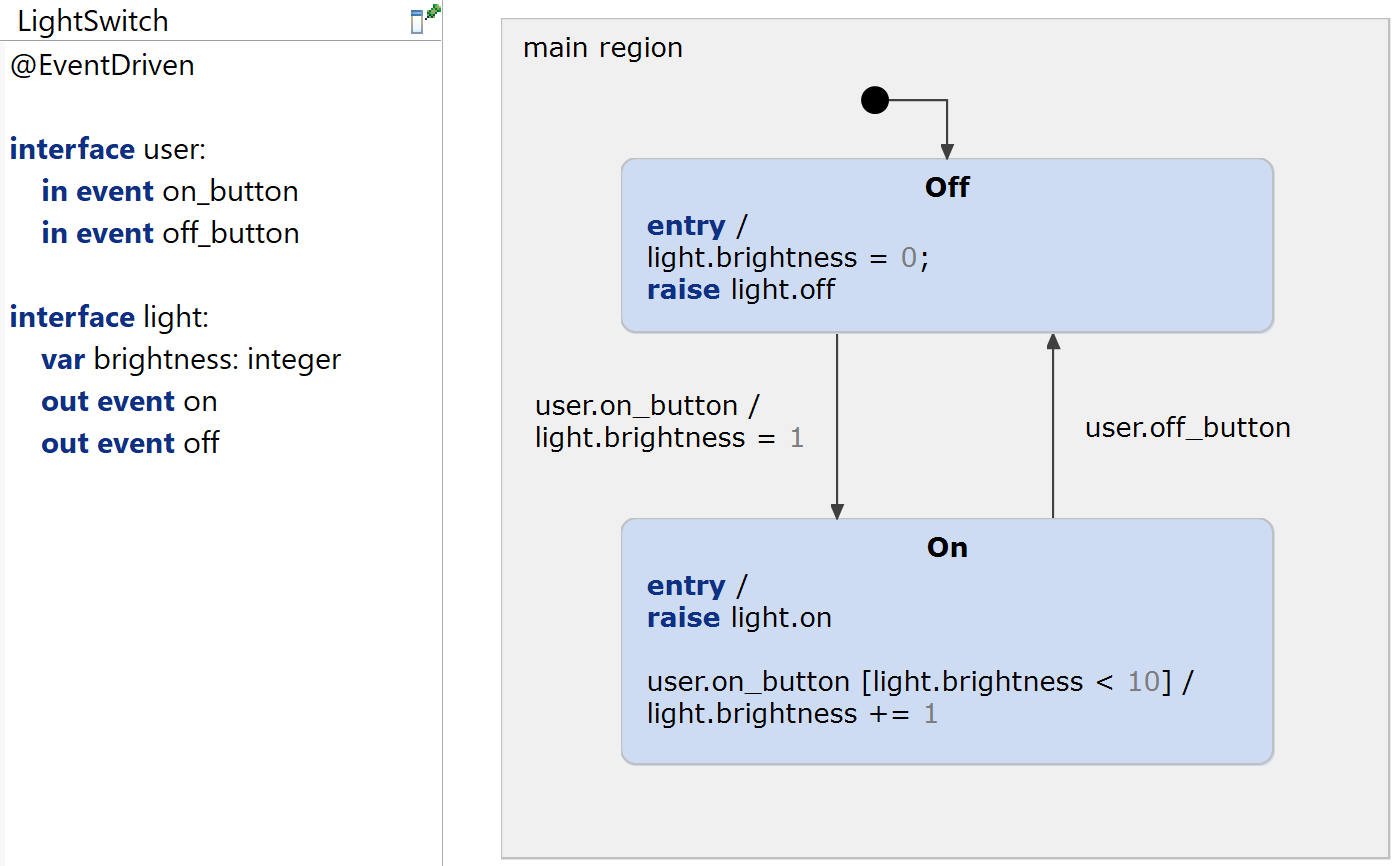
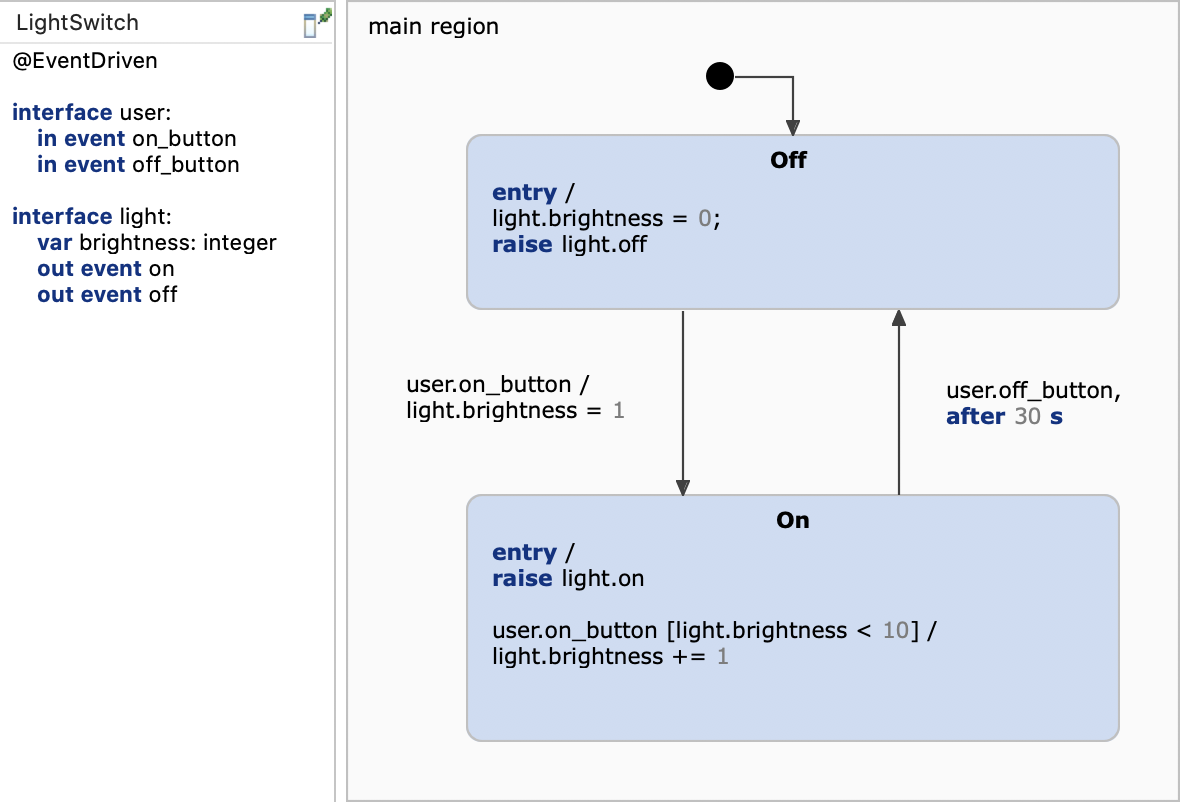
Add timing to default code gen example

diff --git a/org.yakindu.sct.examples.codegen.python/index.html b/org.yakindu.sct.examples.codegen.python/index.html
@@ -30,7 +30,7 @@
 			<script src="https://gist-it.appspot.com/github/Yakindu/examples/blob/release4/org.yakindu.sct.examples.codegen.python/models/python.sgen"></script>
 		</p>
 		<p>
-			This is the simplest possible generator model. Besides setting up the target location, the generator model allows you to adjust several aspects of the generated code like naming, license comments or function inlining. Press [CTRL]+[SPACE] to get a list of available features. For more information, please refer to our <a href="https://www.itemis.com/en/yakindu/state-machine/documentation/user-guide/codegen_python_code_generator#codegen_python_code_generator_features">documentation</a>.
+			The generator model defines where the code should be generated into, and enabled the generation of a default timer service. Besides setting up the target location, the generator model allows you to adjust several aspects of the generated code like naming, license comments or function inlining. Press [CTRL]+[SPACE] to get a list of available features. For more information, please refer to our <a href="https://www.itemis.com/en/yakindu/state-machine/documentation/user-guide/codegen_python_code_generator#codegen_python_code_generator_features">documentation</a>.
 		</p>
 		<img class="small" 
 		alt="Content assist in generator model" title="Content assist in generator model" border="1" src="images/content-assist.gif"/>
@@ -58,11 +58,10 @@
 	The most important parts are commented in the <code>main.py</code> file. These are the bullet points:
 	<ul>
 		<li>Instantiate the state machine and the observers</li>
-		<li>Initializes the state machine, in particular all variables are set to a proper value</li>
+		<li>Set the timer service</li>
 		<li>Subscribe observers</li>
-		<li>Enters the state machine; from this point on the state machine is ready to react on incoming event</li>
+		<li>Enter the state machine; from this point on the state machine is ready to react on incoming event</li>
 		<li>Raise the input events <code>user.on_button</code> and <code>user.off_button</code></li>
-		<li>React on the out events <code>light.on</code> and <code>light.off</code></li>
 	</ul>
 </p>
 <p>

diff --git a/org.yakindu.sct.examples.codegen.python/src/main.py b/org.yakindu.sct.examples.codegen.python/src/main.py
@@ -1,5 +1,6 @@
 from light_switch import LightSwitch
 from yakindu.rx import Observer
+from yakindu.timer.timer_service import TimerService
 
 class Main:
     
@@ -22,6 +23,8 @@ class Main:
         self.lightOffObserver = self.LightOffObserver()
         
     def setup(self):
+        # Set the timer service
+        self.sm.timer_service = TimerService()
         # Subscribes observers to the state machine's observables 
         self.sm.light.on_observable.subscribe(self.lightOnObserver)
         self.sm.light.off_observable.subscribe(self.lightOffObserver)
@@ -48,7 +51,7 @@ class Main:
     def print_status(self):
         # Gets the value of the brightness variable 
         brightness = self.sm.light.brightness
-        print("Light is on, brightness: ", brightness, ".")
+        print("Light brightness: ", brightness, ".")
             
 
 if __name__ == '__main__':
